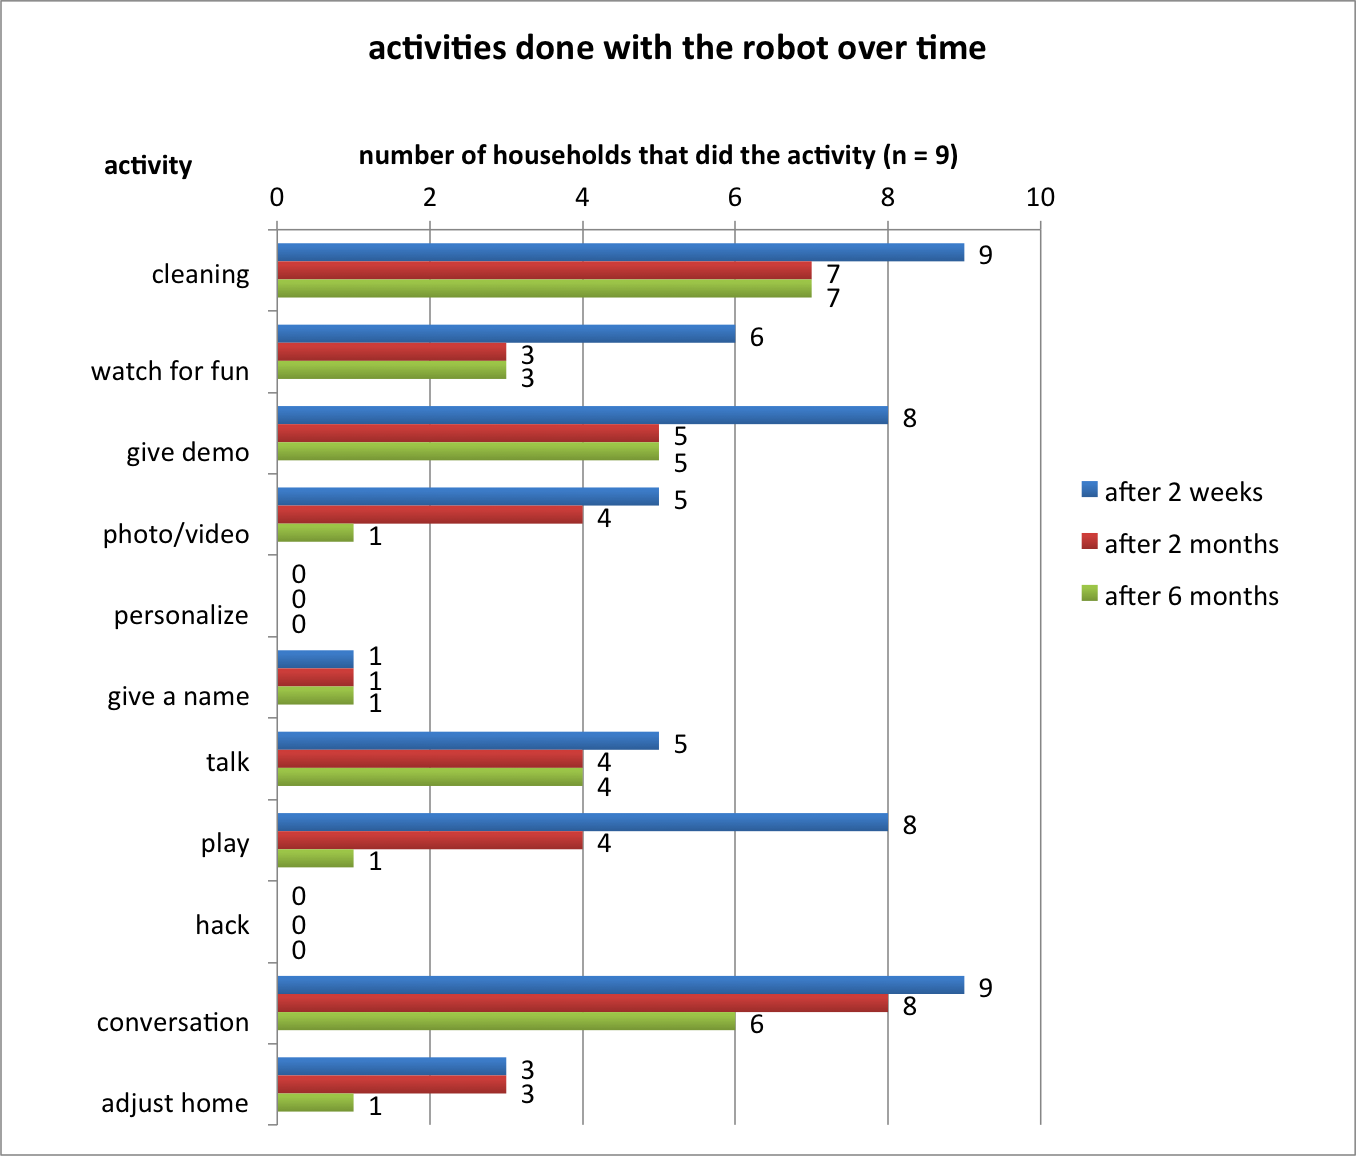
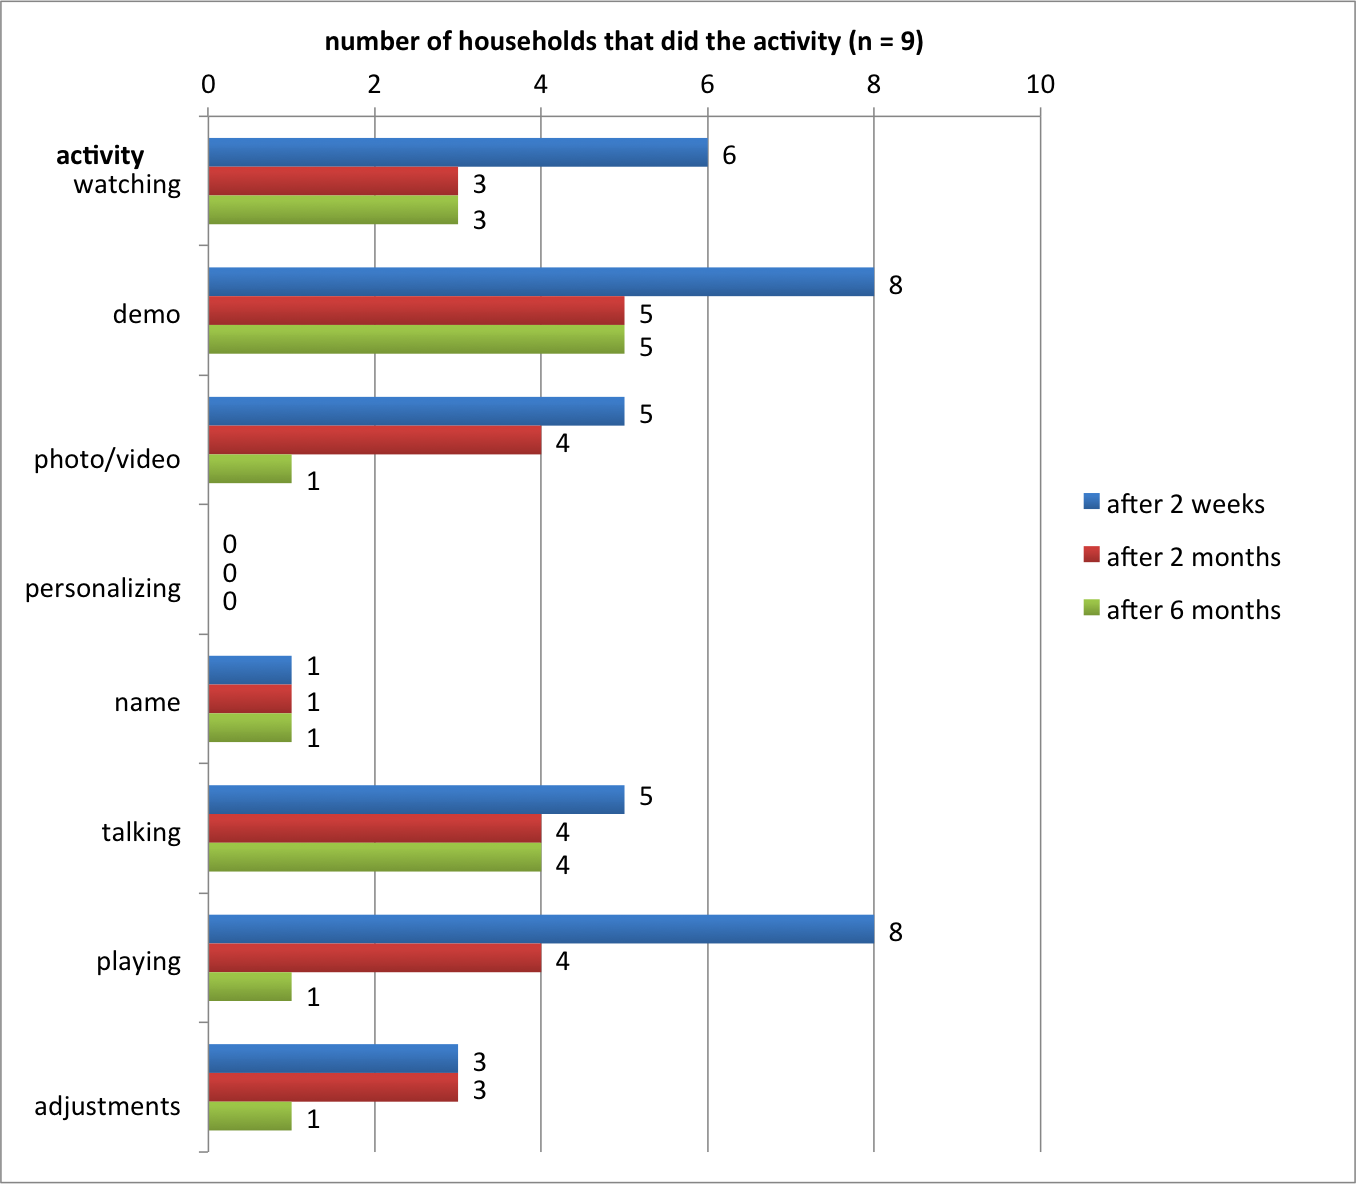
Roomba study section started, new figure

diff --git a/paper.tex b/paper.tex
@@ -12,6 +12,10 @@
 \usepackage{graphicx}
 \graphicspath{{figs/}}
 \usepackage{tikz}
+\usepackage{caption}
+\usepackage{subcaption}
+\usepackage{float}
+\floatstyle{plaintop}
 \usetikzlibrary{shapes}
 %
 \usepackage{amsmath} 
@@ -208,14 +212,17 @@ Finally, Section \ref{sec:conclusion} concludes this article and offers starting
 \section{A few results from the field}
 \label{sec:overview-studies}
 
-In this section we give a brief overview of the studies that we conducted to investigate anthropomorphism. Note that it was not the main purpose of these studies to analyze in detail the effect of different dimensions human-likeness of a robot on the user's perception of and interaction with the robot. Each of these studies were motivated also by other research questions, and we encourage the reader to refer to our other main publications about these studies for more details.
+In this section we give a brief overview of the studies that we conducted to investigate anthropomorphism in human-robot interaction. Note that it was not the main purpose of these studies to analyze in detail the effect of different dimensions human-likeness of a robot on the user's perception of and interaction with the robot. Each of these studies were motivated also by other research questions, and we encourage the reader to refer to our other main publications about these studies for more details.
 
 
 \subsection{Roomba study: how people live with a vacuum cleaning robot}
 
-We openly explored interactions between human users and a domestic service robot in a 6-months lasting ethnographic study in nine households to which we gave a commercially available vacuum cleaning robot (iRobot's Roomba).\footnote{This study is published in \cite{fink_living_2013}.} Hereafter, we refer to this study as the "Roomba study".
+We openly explored long-term interactions between human users and a domestic service robot in a 6-months lasting ethnographic study. We gave a commercially available vacuum cleaning robot (iRobot's Roomba) to nine different types of households in the French speaking part of Switzerland. The fairly diverse sample of households consisted of 2 single homes, 1 couple, and 6 families with children in their home. In total, this summed up to 30 participants: 15 adults (26-71 years old, mean age 43.6 years), and 15 children (6 months to 18 years old). During the 6 months, each household was visited 5 times to conduct interviews and make field observations in the households. Moreover during several weeks, households were asked to fill in a diary to report the usage of the robot and other cleaning activities.
 
-We can report on several findings related to anthropomorphism and the anthropomorphic design of robots. The gathered data for these aspects include qualitative observations, semi-structured interviews, and also quantitative assessments of various aspects of human-robot interaction. The Roomba study is one of very few long-term human-robot interaction studies in the domestic environment. 
+The main goal of this study was to explore how households live with a vacuum cleaning robot over an extended period of time. We wanted to analyze how the usage of and interaction with the robot evolve over time, and to identify adoption phases as well as factors that impact on the long-term acceptance of service robots in homes.
+\footnote{This study is published in \cite{fink_living_2013}.} Hereafter, we refer to this study as the "Roomba study".
+
+From the Roomba study, we can report on several findings related to anthropomorphism and the anthropomorphic design of robots. The gathered data for these aspects include qualitative observations, semi-structured interviews, and also quantitative assessments of various aspects of human-robot interaction. The Roomba study is one of very few long-term human-robot interaction studies in the domestic environment. 
 
 In the following, we present findings in respect of two aspects:
 First, we qualitatively describe what kinds of anthropomorphic interactions between participants and the robot were observed and outline how these interactions evolved over time.
@@ -223,60 +230,95 @@ Second, we present people's perception of human-likeness and social capabilities
 
 \subsubsection{Anthropomorphic interactions with the robot}
 
+It has been described in several previous studies of the Roomba \citep{forlizzi_service_2006,forlizzi_how_2007,krumm_my_2007,sung_domestic_2010}, that users tend to engage in a variety of non-cleaning activities associated with the Roomba including, but not limited to, naming, ascribing personality and gender. \cite{sung_housewives_2008} carried out a survey among 379 Roomba users to investigate how common these activities are. 
 
-\begin{figure}
-    \centering
-    \includegraphics[width=0.6\columnwidth]{roomba-activities.png}
-    \caption{This bar chart shows how many of the 9 households carried out different kinds of activities with and related to the robot over a period of 6 months. Activities included using the robot for \texttt{cleaning}, \texttt{watching} the robot for fun, giving a \texttt{demo} of the robot to guests / visitors, taking a \texttt{photo/video} of the robot, \texttt{personalizing} the robot, giving a \texttt{name} to the robot, \texttt{talking} to the robot, \texttt{playing} with the robot, \texttt{hacking} the robot, having a \texttt{conversation} about the robot, making \texttt{adjustments} to the home due to the robot. Participants were asked to report on these activities at 3 time points after the robot was deployed in their home: after 2 weeks, after 2 months, and after 6 months. \hl{(strangely, in the pdf version of this graph the bars were not displayed!)}}
+We also found that people tend to anthropomorphize or interact socially (in a broader sense) with their vacuum cleaning robot.
+However, our long-term observations suggest that this effect is marginal, and that the social impact of a functional robot on a household seems to be generally overestimated.
+In contrast to the previous work, we found that there were just few instances of people anthropomorphizing the robot and interacting with it in a human-social way. More importantly, overall, these anthropomorphic interactions with the robot did not last but seemed to be somehow related to the novelty of the robot.
 
-    \label{fig:roomba-activities}
-\end{figure}
+In terms of how people interacted with the robot, we categorized several interactions and actions with the robot as anthropomorphic or social, in a broader sense. Examples of what we categorized as somehow social and anthropomorphic (human-like) interactions with the robot include \textit{watching} the robot for fun, giving a \textit{demo} of the robot to guests / visitors, taking a \textit{photo/video} of the robot, \textit{personalizing} the robot, giving a \textit{name} to the robot, \textit{talking} to the robot using direct speech, \textit{playing} with the robot, and making \textit{adjustments} to the home due to the robot. Figure \ref{fig:roomba-activities}) shows how many of the 9 households engaged in what kind of activity with the robot at three different points of time after the robot was deployed in the household.
+
+\paragraph*{Watching the robot for fun.} We categorize watching a robot for fun as an entertaining, social activity, reflecting a feeling of empathy for the robot. In \cite{sung_housewives_2008} survey, 73~\% of the participants reported to watch their Roomba running for fun. While in the beginning of our study, also a quite high proportion (6 of 9 households) reported to watch the robot for fun, after 2 and 6 months the number of households that engaged in this activity decreased by half. 
+
+\paragraph*{Giving a robot demo to visitors.} \cite{sung_domestic_2010} described that a vacuum cleaning robot can serve as a mediator and encourage social interaction among people. We categorize giving a demo of the robot to visitors / guest to the household as such an activity. During the first 2 weeks with the robot 8 of 9 households in our study showed their robot to others, and still after 2 and 6 months 5 of the households engaged in this activity. This number is more or less in accordance with the 57~\% of survey respondents who stated to give demonstrations to others \citep{sung_housewives_2008}.
+
+\paragraph*{Taking photos / videos of the robot.} How far taking a photo or video of a robot can be seen as an anthropomorphic interaction is questionable. However, it reflects the fact that the robot is observed by the user who for some reason is motivated to record the event. The number of households that took a photo or video of the robot decreased over time from 5 households in the beginning to 1 household after 6 months.
+
+\paragraph*{Personalizing the robot.} It has been found that people are motivated to personalize technology as a form of self-expression (identity projection) or when they use a technology a lot and know how to customize it (technical identity projection) \citep{blom_personalization:_2000}. Though \cite{sung_pimp_2009} found that some Roomba users who were given a customization toolkit personalized their Roomba, none of the users in her study who was \textit{not} given this toolkit personalized their Roomba. Also in our study none of the 9 households engaged in a personalization activity.
+
+\paragraph*{Giving a name to the robot.} Giving a name to an artificial agent reflects a certain kind of personal relationship to the agent. By naming a robot, it is not anonymous anymore, and might be perceived as a moral agent. As such, naming an artificial agent can be classified as anthropomorphizing this agent. It further suggests that the agent is talked to directly. Though more than 23~\% of the survey participants in \cite{sung_housewives_2008} study reported to name their Roomba, only 1 of 9 households in our study did so. 
+
+\paragraph*{Talking directly to the robot.} Using direct speech toward an object or artificial agent that does not have the ability to recognize and process speech (such as verbal comments) or other sound cues, is an interesting phenomenon which can be classified as an anthropomorphic interaction. Whereas only 11~\% of the survey respondents in \cite{sung_housewives_2008} study reported to talk to their robot, around half of the households engaged in this activity and the proportion did not notably decrease over time. 
+
+\paragraph*{Playing with the robot.} In our study, it were mostly children who engaged in playing with the robot, however, most of them stopped doing so after some time. The number of household playing with their Roomba decreased from 8 when asked after 2 weeks with the robot, to 4 households after 2 months, and 1 household after 6 months. In \cite{sung_housewives_2008} survey, 37~\% of the Roomba owners reported to play and experiment with their robot. 
+
+\paragraph*{Making adjustments to the home due to the robot.} To help Roomba clean, \cite{sung_housewives_2008} found in an online survey that about half of the 379 participants made physical modifications to their homes. This process is referred to as \textit{roombarization}, and it seems to be a unique aspect of adopting a domestic service robot. In our study, almost all the households made adjustments when they used the robot for the first time in front of us. However, during the first two weeks with the robot, only 3 households reported to have adjusted something due to the robot, and after 6 months it was only 1 household that still engaged in this activity. This decrease is, however, logical since after some time most people had done all the necessary adjustments to enable the robot show a good performance.
+
+\paragraph*{Emerging anthropomorphic interactions.} Another, from our side more unexpected interaction that we would describe as somehow anthropomorphic, is what we call \textit{``collaborative cleaning''} with the robot. In the initial phase of the study, some people spontaneously helped the robot to clean by either picking up crumbs from the floor themselves or pushing it right in front of the robot. Another way of collaborating with the robot we observed was to help it go everywhere by spontaneously putting up the trash bin or the carpet in the bathroom (things that are not just lying around and need to be cleaned up). However, the activity of collaborative cleaning faded out soon, and we suspect it was encouraged by the novelty of the robot.
 
 
 \subsubsection{Perception of human-like characteristics of the robot}
 
+\begin{figure}[t]
+	\centering
+    
+    \subfloat[activities with the robot over time,\\ n = 9 households]
+    {\label{fig:roomba-activities}
+    \includegraphics[width=8.5cm]{roomba-activities.png}}
+	\subfloat[people's perception of the robot over time,\\ n = 15 participants]    
+	{\label{fig:roomba-perception}
+    \includegraphics[width=8.5cm]{roomba-perception.pdf}}    
+    
+    \caption{\textbf{Activities with and perception of the robot over time.}\\
+	\textbf{(a)} This bar chart shows how many of the 9 households carried out different kinds of anthropomorphic / social activities with and related to the robot at 3 time points during 6 months. Activities include \texttt{watching} the robot for fun, giving a \texttt{demo} of the robot to guests / visitors, taking a \texttt{photo/video} of the robot, \texttt{personalizing} the robot, giving a \texttt{name} to the robot, \texttt{talking} to the robot, \texttt{playing} with the robot, and making \texttt{adjustments} to the home due to the robot. Participants were asked to report on these activities at 3 time points after the robot was deployed in their home: after 2 weeks, after 2 months, and after 6 months.\\
+	\textbf{(b)} This line chart shows how people's perception of the robot evolves over time. At 5 time points people were asked to rate the robot according to the following aspects: the perceived \texttt{intelligence} of the robot, the perceived \texttt{usefulness}, the perceived \texttt{easy of use}, how much \texttt{fun} it was to use the robot, how far they found the robot had an \texttt{impact} on their household, and their {overall} impression of it.}
+
+\end{figure}
 
 
-\begin{figure*}[htb]
-\centering
 
-\begin{tikzpicture}[scale=0.5, y = 2cm]
-%axis
-\draw (0,0) -- coordinate (x axis mid) (20,0);
-\draw (0,0) -- coordinate (y axis mid) (0,7);
-%ticks
-\foreach \x in {0,4,...,20}
-    \draw (\x,1pt) -- (\x,-3pt);
-\foreach \y in {1,...,7} 
-    \draw[black!20] (20,\y) -- (-3pt,\y);
-\foreach \y in {1,...,7} 
-    \draw (-3pt, \y) node[anchor=east] {\y}; 
-%labels
-\node[below=0.8cm] at (x axis mid) {People's perception ($\sigma=15$)};
-\node at (2, -0.4) {\tiny expectations};
-\node[align=center] at (6, -0.4) {\tiny after\\ \tiny first usage};
-\node[align=center] at (10, -0.4) {\tiny after\\ \tiny 2 weeks};
-\node[align=center] at (14, -0.4) {\tiny after\\ \tiny 2 months};
-\node[align=center] at (18, -0.4) {\tiny after\\ \tiny 6 months};
+%\begin{figure*}[htb]
+%\centering
+%
+%\begin{tikzpicture}[scale=0.5, y = 2cm]
+%%axis
+%\draw (0,0) -- coordinate (x axis mid) (20,0);
+%\draw (0,0) -- coordinate (y axis mid) (0,7);
+%%ticks
+%\foreach \x in {0,4,...,20}
+%    \draw (\x,1pt) -- (\x,-3pt);
+%\foreach \y in {1,...,7} 
+%    \draw[black!20] (20,\y) -- (-3pt,\y);
+%\foreach \y in {1,...,7} 
+%    \draw (-3pt, \y) node[anchor=east] {\y}; 
+%%labels
+%\node[below=0.8cm] at (x axis mid) {People's perception ($\sigma=15$)};
+%\node at (2, -0.4) {\tiny expectations};
+%\node[align=center] at (6, -0.4) {\tiny after\\ \tiny first usage};
+%\node[align=center] at (10, -0.4) {\tiny after\\ \tiny 2 weeks};
+%\node[align=center] at (14, -0.4) {\tiny after\\ \tiny 2 months};
+%\node[align=center] at (18, -0.4) {\tiny after\\ \tiny 6 months};
+%
+%\draw[dashed, black!50] (6,0) -- (6,7) node[sloped, below, pos=0.25] {\tiny novelty effect};
+%
+%\draw[ultra thick, red!50] (2,5.6) -- (6,6.1) -- (10,6.3) -- (14,6.3) -- (18,6.1) node at (15,6.5) {\tiny \it ease of use};
+%\draw[ultra thick, purple] (2,4.9) -- (6,5.2) -- (10,5.1) -- (14,4.5) -- (18,4.2) node at (3,4.7) {\tiny \it usefulness};
+%\draw[ultra thick, blue!50] (2,4) -- (6,4.1) -- (10,4.6) -- (14,4.1) -- (18,4.3) node at (16,4) {\tiny \it fun};
+%\draw[ultra thick, green!50] (2,3.9) -- (6,4.1) -- (10,4.2) -- (14,3.8) -- (18,3.3) node at (19,3.5) {\tiny \it intelligence};
+%\draw[ultra thick, orange] (2,3.5) -- (6,4.2) -- (10,4) -- (14,3.2) -- (18,2.8) node at (14,2.7) {\tiny \it impact};
+%
+%\draw[ultra thick, dashed] (2,5.2) -- (6,5.2) -- (10,5) -- (14,4.9) -- (18,4.5) node at (14,5.3) {\tiny \it overall};
+%
+%\end{tikzpicture}
+%
+%\caption{User perception of the Roomba robot over a 6 month period
+%($\sigma=15$).}
+%
+%\label{roomba-perception}
+%\end{figure*}
 
-\draw[dashed, black!50] (6,0) -- (6,7) node[sloped, below, pos=0.25] {\tiny novelty effect};
 
-\draw[ultra thick, red!50] (2,5.6) -- (6,6.1) -- (10,6.3) -- (14,6.3) -- (18,6.1) node at (15,6.5) {\tiny \it ease of use};
-\draw[ultra thick, purple] (2,4.9) -- (6,5.2) -- (10,5.1) -- (14,4.5) -- (18,4.2) node at (3,4.7) {\tiny \it usefulness};
-\draw[ultra thick, blue!50] (2,4) -- (6,4.1) -- (10,4.6) -- (14,4.1) -- (18,4.3) node at (16,4) {\tiny \it fun};
-\draw[ultra thick, green!50] (2,3.9) -- (6,4.1) -- (10,4.2) -- (14,3.8) -- (18,3.3) node at (19,3.5) {\tiny \it intelligence};
-\draw[ultra thick, orange] (2,3.5) -- (6,4.2) -- (10,4) -- (14,3.2) -- (18,2.8) node at (14,2.7) {\tiny \it impact};
-
-\draw[ultra thick, dashed] (2,5.2) -- (6,5.2) -- (10,5) -- (14,4.9) -- (18,4.5) node at (14,5.3) {\tiny \it overall};
-
-\end{tikzpicture}
-
-\caption{User perception of the Roomba robot over a 6 month period
-($\sigma=15$).}
-
-\label{roomba-perception}
-\end{figure*}
-
+In accordance with \cite{sung_housewives_2008} we also found relatively low rates of users treating and perceiveing their vacuum cleaning robot as a living (or human-like) entity. We interpret that it might be the pure functional purpose and non human-like form of the Roomba vacuum cleaning robot that prevented people from anthropomorphizing it. Still, we observed some initial anthropomorphic effects, such as collaborative cleaning with the robot, and talking to the robot.
 
 
 \subsection{Forum study: using anthropomorphic language to describe a robot}
